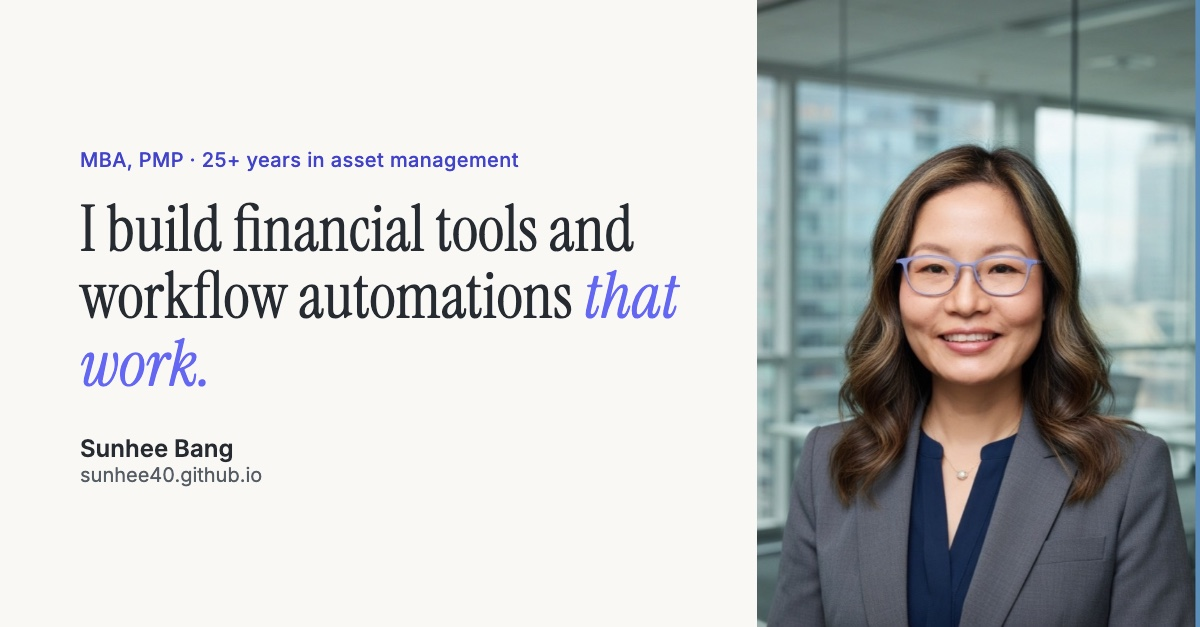
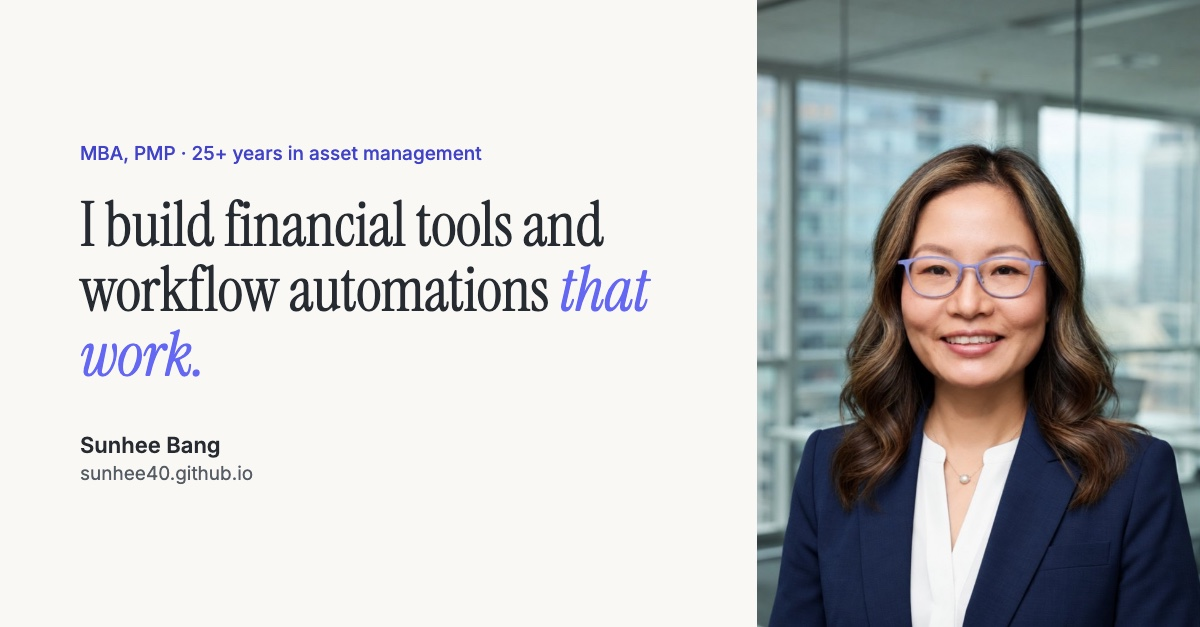
Swap hero portrait for 2026 profile photo and refresh share card

diff --git a/index.html b/index.html
@@ -1273,7 +1273,7 @@
       <div class="hero-panel rise">
         <div class="panel-frost">
           <div class="panel-inner">
-            <img class="portrait" src="images/portrait.jpg" alt="Sunhee Bang" />
+            <img class="portrait" src="images/profile_2026.jpg" alt="Sunhee Bang" />
             <div class="tearsheet">
               <dl>
                 <div>
